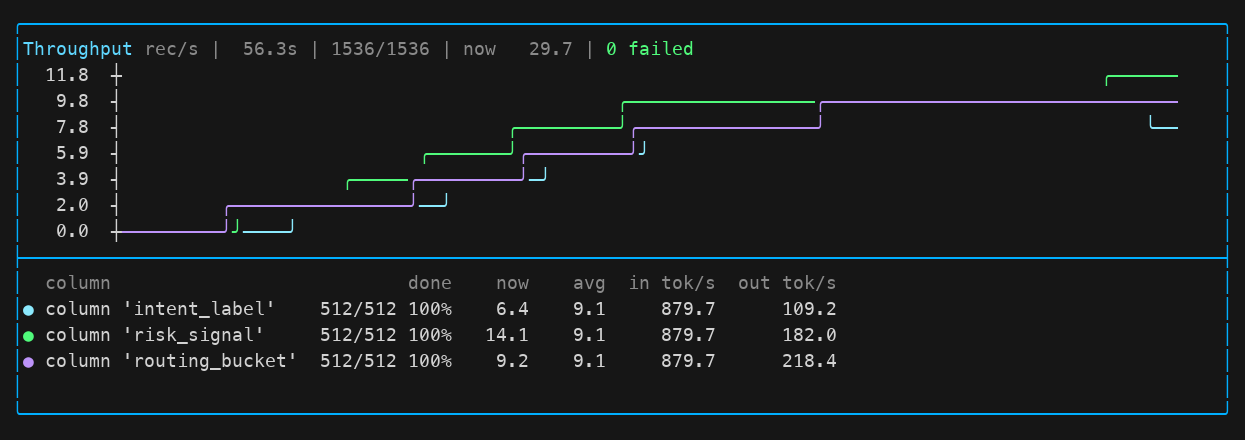
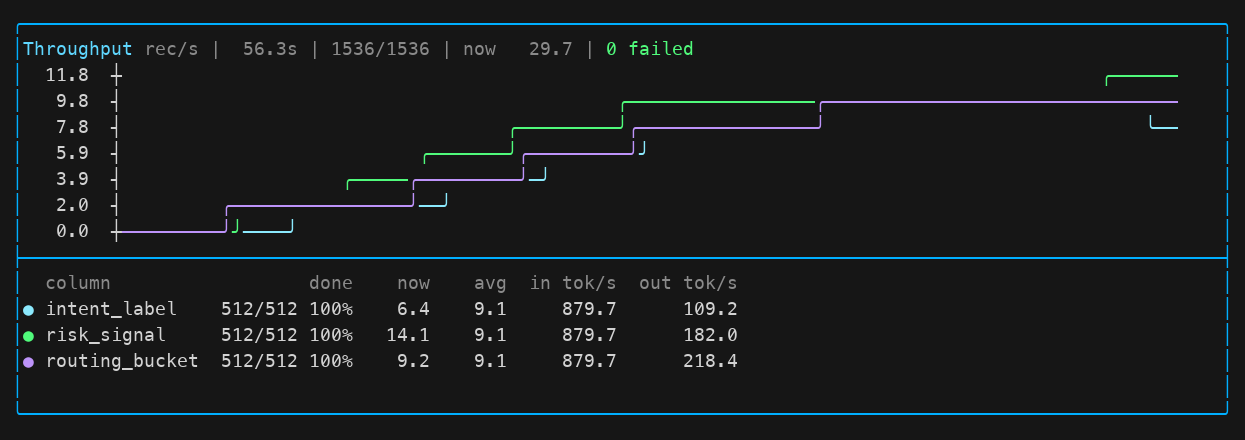
fix: avoid repeated column label in progress legend
Show raw column names in the async progress panel legend because the table header already provides the column context, and refresh the PR screenshot.

Changed region(s): [[0.0305, 0.6205, 0.6715, 0.8568]]

diff --git a/packages/data-designer-engine/tests/engine/dataset_builders/utils/test_sticky_progress_bar.py b/packages/data-designer-engine/tests/engine/dataset_builders/utils/test_sticky_progress_bar.py
@@ -270,6 +270,10 @@ def test_reporter_updates_and_logs_keep_drawn_lines_in_sync(tty_stream: FakeTTY)
         with bar:
             reporter = AsyncProgressReporter(trackers, report_interval=0.1, progress_bar=bar)
             reporter.log_start(num_row_groups=1)
+            panel = "\n".join(_last_panel_lines(tty_stream.getvalue()))
+            assert "col_a" in panel
+            assert "column 'a'" not in panel
+
             emit_token_usage_event(
                 TokenUsageEvent(
                     model_alias="test",

diff --git a/packages/data-designer-engine/src/data_designer/engine/dataset_builders/utils/async_progress_reporter.py b/packages/data-designer-engine/src/data_designer/engine/dataset_builders/utils/async_progress_reporter.py
@@ -45,7 +45,7 @@ class AsyncProgressReporter:
         self._unsubscribe_token_usage: Callable[[], None] | None = None
         if self._bar is not None:
             for col, tracker in trackers.items():
-                self._bar.add_bar(col, f"column '{col}'", tracker.total_records)
+                self._bar.add_bar(col, col, tracker.total_records)
             self._unsubscribe_token_usage = subscribe_token_usage(self._record_token_usage)
 
     def log_start(self, num_row_groups: int) -> None: